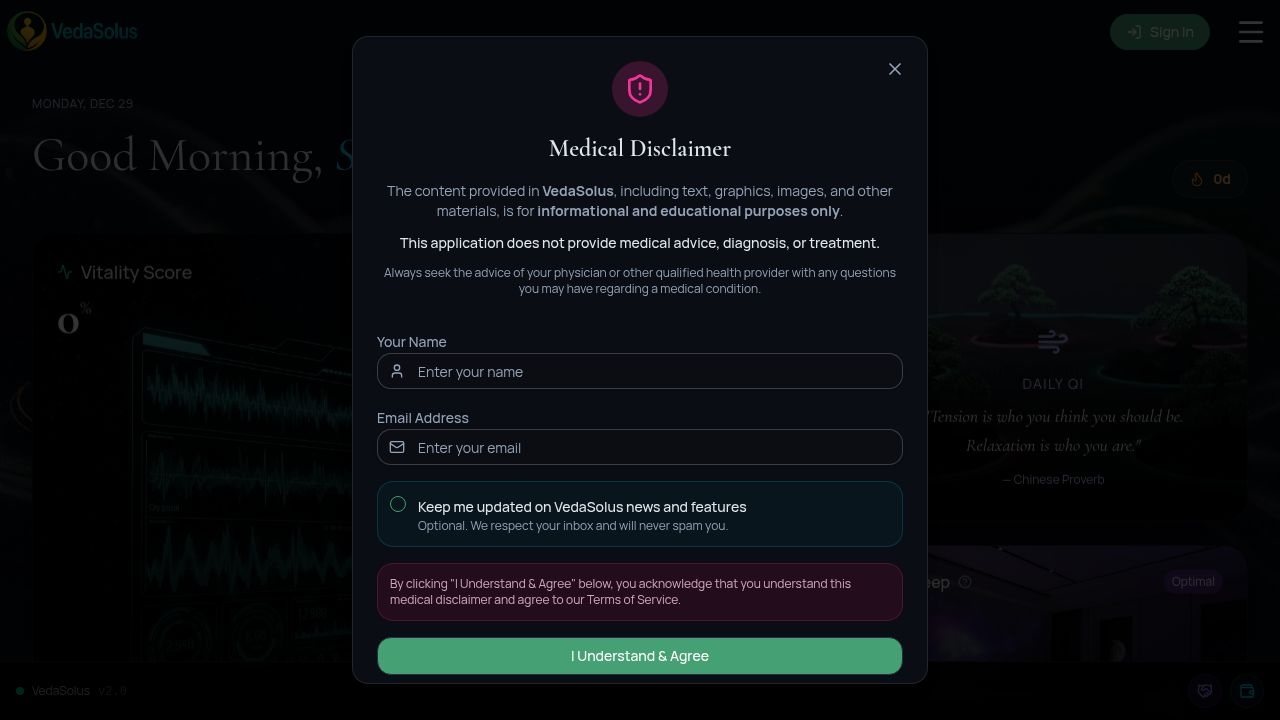
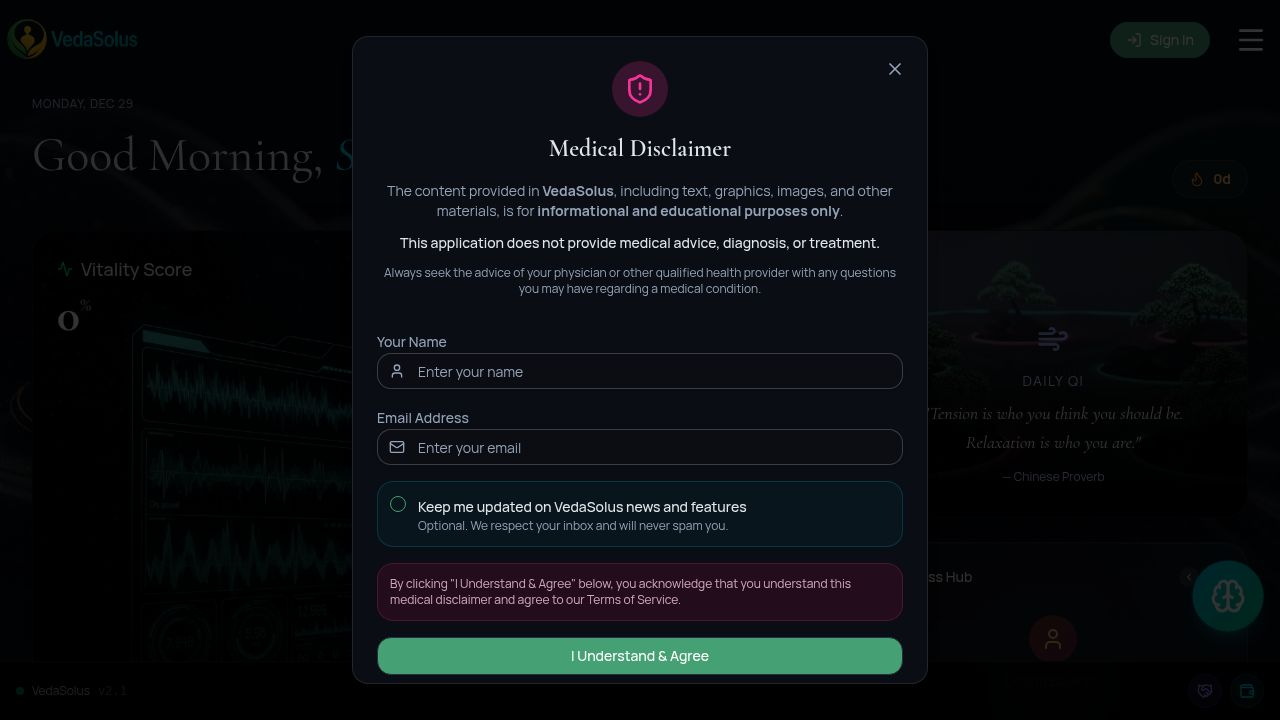
Add floating AI coach button and remove large card
Replace the static AI Wellness Coach card with a floating button that opens a modal containing the AIWellnessCoach component.

Replit-Commit-Author: Agent
Replit-Commit-Session-Id: ba9a7f8b-3c4c-42c8-ab50-ab88c8bc8138
Replit-Commit-Checkpoint-Type: full_checkpoint
Replit-Commit-Event-Id: 5139de87-c2ce-4e32-aa8d-456672f5a298
Replit-Commit-Screenshot-Url: https://storage.googleapis.com/screenshot-production-us-central1/c3c833f9-f728-4fd9-8731-e0b7935aac36/ba9a7f8b-3c4c-42c8-ab50-ab88c8bc8138/vx1DIqB
Replit-Helium-Checkpoint-Created: true

diff --git a/client/src/pages/Home.tsx b/client/src/pages/Home.tsx
@@ -27,7 +27,6 @@ import heartRateBg from "@assets/generated_images/holographic_heart_pulse.png";
 import achievementBg from "@assets/generated_images/achievement_milestone_pathway.png";
 import meditationBg from "@assets/generated_images/bioluminescent_meditation_cave.png";
 import insightsBg from "@assets/generated_images/ai_ayurvedic_insights_visualization.png";
-import aiCoachBg from "@assets/generated_images/holographic_ai_wellness_mentor.png";
 
 
 const dailyQuotes = [
@@ -615,12 +614,25 @@ export default function Home() {
         </BentoCard>
       </div>
 
-      {/* AI Wellness Coach */}
-      <div className="mt-6 sm:mt-8">
-        <BentoCard colSpan={3} backgroundImage={aiCoachBg} className="p-0 overflow-hidden">
+      {/* AI Wellness Coach Floating Button */}
+      <Dialog>
+        <DialogTrigger asChild>
+          <motion.button
+            initial={{ scale: 0, opacity: 0 }}
+            animate={{ scale: 1, opacity: 1 }}
+            transition={{ delay: 0.5, type: "spring", stiffness: 200 }}
+            whileHover={{ scale: 1.1 }}
+            whileTap={{ scale: 0.95 }}
+            className="fixed bottom-20 right-4 sm:bottom-24 sm:right-6 z-40 w-14 h-14 rounded-full bg-gradient-to-br from-cyan-500 to-emerald-500 shadow-lg shadow-cyan-500/30 flex items-center justify-center hover:shadow-cyan-500/50 transition-shadow"
+            data-testid="button-ai-coach"
+          >
+            <Brain className="w-7 h-7 text-white" />
+          </motion.button>
+        </DialogTrigger>
+        <DialogContent className="bg-black/95 backdrop-blur-2xl border-cyan-500/20 max-w-2xl max-h-[80vh] overflow-hidden p-0">
           <AIWellnessCoach />
-        </BentoCard>
-      </div>
+        </DialogContent>
+      </Dialog>
       </TooltipProvider>
     </Shell>
   );
